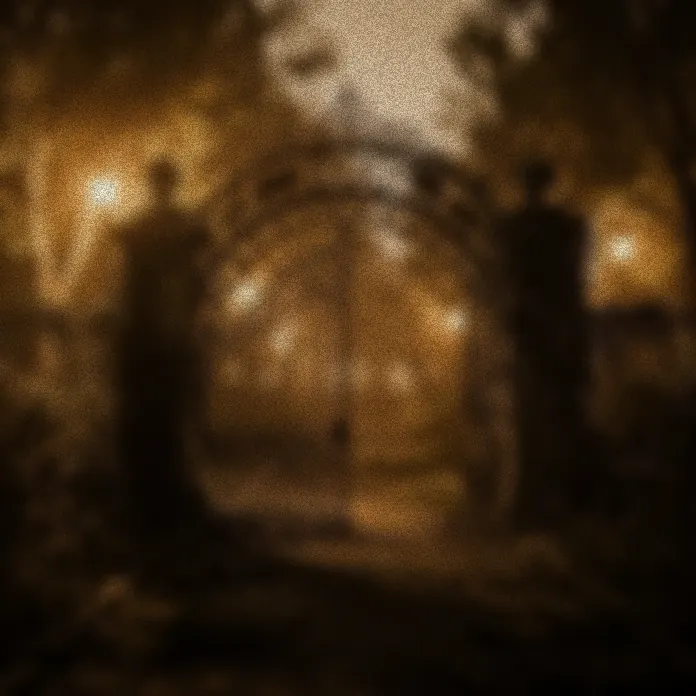
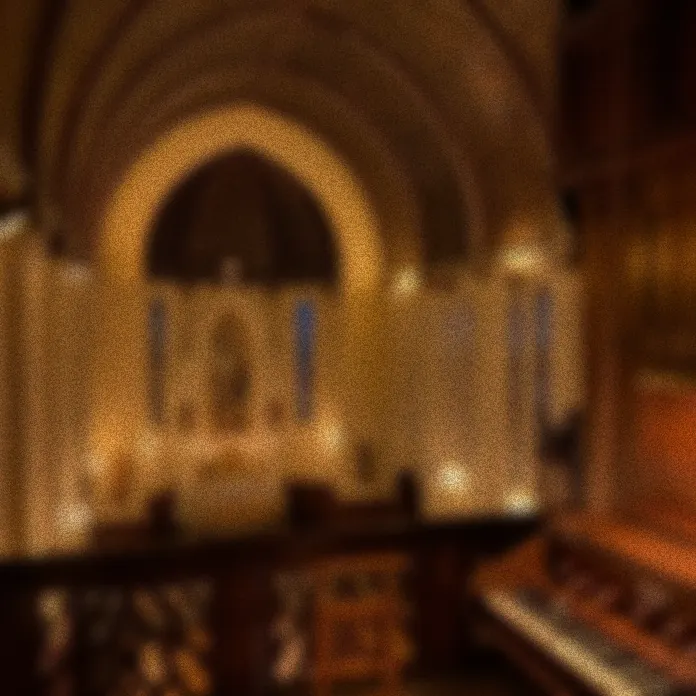
Use the real photo for phase 4
The chapel seen from the organ loft replaces the zoo gate placeholder,
as a sharp and a locked (blurred, noise) WebP cropped to shard 2, with
the floor reflection redrawn. The original is in originals/phases/.

diff --git a/content/stories.ts b/content/stories.ts
@@ -97,7 +97,7 @@ export const STORIES: Record<1 | 2 | 3 | 4, Story> = {
     eyebrow: "Hoofdstuk 4",
     title: "Wat ik was",
     image: "/glass/phases/phase-4.webp",
-    imageAlt: "Een open smeedijzeren poort met het woord Zoo, tussen lantaarns in de mist.",
+    imageAlt: "Een warm verlichte kapel met gewelfd plafond en altaar, gezien vanaf het oksaal met het orgel.",
     paragraphs: [
       "Ik moet je nog één ding vertellen.",
       "Ik zei dat stilte alles was wat ik kende.",

diff --git a/README.md b/README.md
@@ -87,4 +87,4 @@ To only replace phase photos, put them in `originals/phases/` named after the ph
 npm run assets -- --phases originals/phases
 ```
 
-This crops each photo to its shard, writes the sharp and locked WebP and redraws the floor reflection. Phases without a photo in that folder keep their current images. Phases 1 and 2 have their real photos there; 3 and 4 are still placeholders.
+This crops each photo to its shard, writes the sharp and locked WebP and redraws the floor reflection. Phases without a photo in that folder keep their current images. Phases 1, 2 and 4 have their real photos there; phase 3 is still a placeholder. Running it rebuilds every phase that has a photo there, which only changes the random noise of the locked versions.
